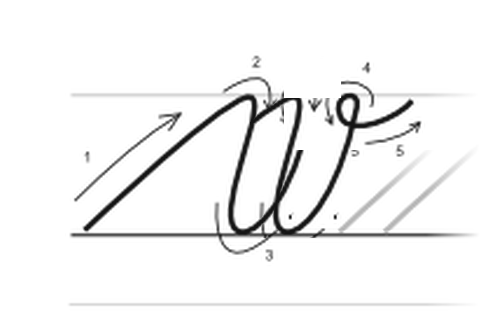
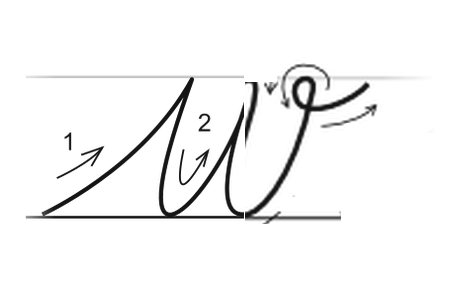
Malé w je složené z ořezu u a konce písmene v a maska v už neobsahuje šipky.

diff --git a/psani/pismena-data.js b/psani/pismena-data.js
@@ -54,7 +54,7 @@ const PISMO = {
  "Y": {"f":"y_V.png","k":"y_V_maska.png","w":399,"h":600,"bx":79.2,"by":382.9,"u0":-0.001,"u1":1.791,"z":[],"sk":0},
  "z": {"f":"z_m.png","k":"z_m_maska.png","w":454,"h":285,"bx":86.2,"by":217.3,"u0":-0.001,"u1":2.134,"z":[],"sk":0},
  "Z": {"f":"z_V.png","k":"z_V_maska.png","w":399,"h":463,"bx":73.4,"by":382.8,"u0":-0.003,"u1":1.833,"z":[],"sk":0},
- "w": {"f":"w_m.png","k":"w_m_maska.png","w":481,"h":329,"bx":84.0,"by":233.3,"u0":-0.007,"u1":2.35,"z":[],"sk":0},
+ "w": {"f":"w_m.png","k":"w_m_maska.png","w":460,"h":283,"bx":41.6,"by":216.7,"u0":-0.004,"u1":2.339,"z":[],"sk":0},
  "W": {"f":"w_V.png","k":"w_V_maska.png","w":541,"h":462,"bx":88.7,"by":380.3,"u0":-0.005,"u1":2.745,"z":[],"sk":0},
  "á": {"f":"a_m.png","k":"a_m_maska.png","w":356,"h":282,"bx":88.4,"by":215.5,"u0":-0.003,"u1":1.419,"z":[[[0.59,1.4],[0.87,1.74]]],"sk":0},
  "Á": {"f":"a_V.png","k":"a_V_maska.png","w":403,"h":462,"bx":90.3,"by":381.3,"u0":-0.002,"u1":1.741,"z":[[[0.75,2.3],[1.03,2.64]]],"sk":0},
